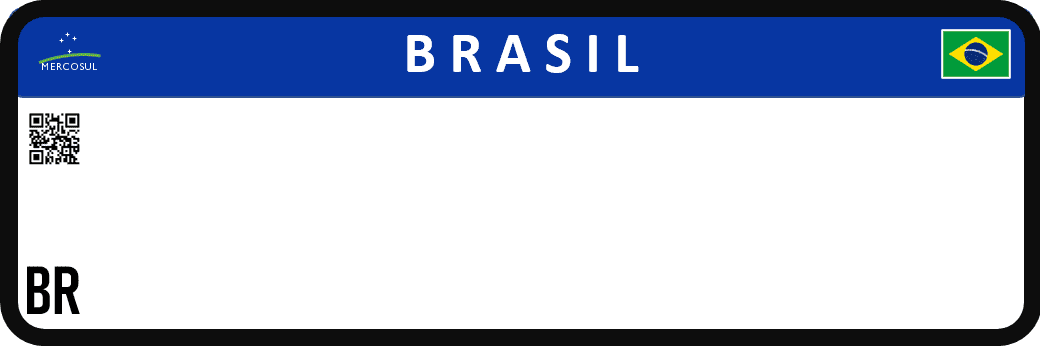
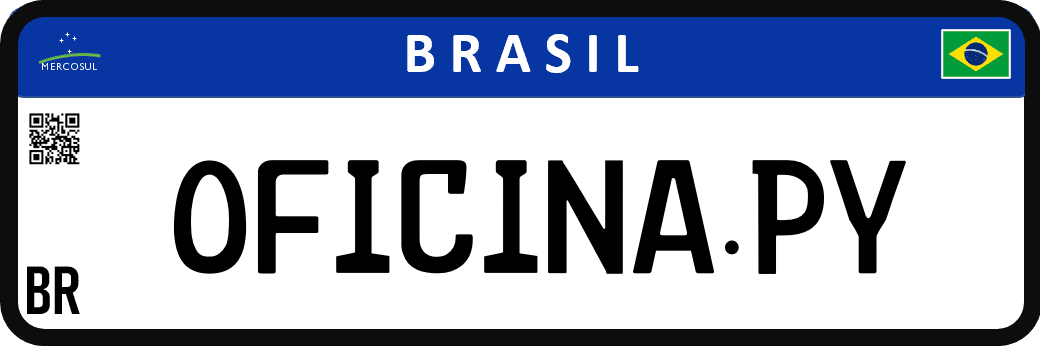
alteração placa de veiculos

Changed region(s): [[0.1538, 0.4624, 0.8923, 0.8092]]

diff --git a/View/Login/login.html b/View/Login/login.html
@@ -1,69 +1,66 @@
 {% extends "layouts/base-fullscreen.html" %}
 
-{% block title %} Entrar {% endblock %} 
+{% block title %} Entrar {% endblock %}
 
 <!-- Specific Page CSS goes HERE  -->
 {% block stylesheets %}{% endblock stylesheets %}
 
 {% block content %}
-    
-  <div class="page-header align-items-start min-vh-100" 
-        style="background-image: url('/static/assets/img/illustrations/motoMapBackground.jpg'); background-size: cover;">
-    <span class="mask bg-gradient-dark opacity-6"></span>
-    <div class="container my-auto">
-      <div class="row">
-        <div class="col-lg-4 col-md-8 col-12 mx-auto">
-          <div class="card z-index-0 fadeIn3 fadeInBottom">
-            <div class="card-header p-0 position-relative mt-n4 mx-3 z-index-2">
-              <div class="bg-gradient-primary shadow-primary border-radius-lg py-3 pe-1">
-                <h4 class="text-white font-weight-bolder text-center mt-2 mb-0">
-                  Oficina Py
-                </h4>
-                <div class="row mt-3">
-                  <p class="mb-0 text-white text-center">
-                    {% if msg %}
-                      {{ msg | safe }}
-                    {% else %}
-                      Inserir credenciais
-                    {% endif %}
-                  </p>
-                </div>
+
+<div class="page-header align-items-start min-vh-100"
+  style="background-image: url('/static/assets/img/illustrations/motoMapBackground.jpg'); background-size: cover;">
+  <span class="mask bg-gradient-dark opacity-6"></span>
+  <div class="container my-auto">
+    <div class="row">
+      <div class="col-lg-4 col-md-8 col-12 mx-auto">
+        <div class="card z-index-0 fadeIn3 fadeInBottom">
+          <div class="card-header p-0 position-relative mt-n4 mx-3 z-index-2">
+            <div class="bg-gradient-light shadow-primary border-radius-lg py-3 pe-1">
+              <img src="/static/assets/img/placa_veiculo.png" class="mx-auto d-block" alt="logo" width="250">
+              <div class="row mt-3">
+                <p class="mb-0 text-black text-center">
+                  {% if msg %}
+                  {{ msg | safe }}
+                  {% else %}
+                  Inserir credenciais
+                  {% endif %}
+                </p>
               </div>
             </div>
-            <div class="card-body">
-              
-              <form role="form" method="post" action="" class="text-start">
+          </div>
+          <div class="card-body">
 
-                {{ form.hidden_tag() }} 
+            <form role="form" method="post" action="" class="text-start">
 
-                <div class="input-group input-group-outline mb-3">
-                    {{ form.username(class="form-control", placeholder="Usuario") }}
-                </div>
-                <div class="input-group input-group-outline mb-3">
-                  {{ form.password(class="form-control", type="password", placeholder="Senha") }}
-                </div>
-                <div class="form-check form-switch d-flex align-items-center mb-3">
-                  <input class="form-check-input" type="checkbox" id="rememberMe">
-                  <label class="form-check-label mb-0 ms-2" for="rememberMe">lembrar-me</label>
-                </div>
-                <div class="text-center">
-                  <button type="submit" name="login" 
-                          class="btn bg-gradient-primary w-100 my-4 mb-2">Entrar</button>
-                </div>
-                <p class="mt-4 text-sm text-center">
-                  Não tem uma conta?
-                  <a href="{{ url_for('index.register') }}" class="text-primary text-gradient font-weight-bold">Criar</a>
-                </p>
-              </form>
-            </div>
+              {{ form.hidden_tag() }}
+
+              <div class="input-group input-group-outline mb-3">
+                {{ form.username(class="form-control", placeholder="Usuario") }}
+              </div>
+              <div class="input-group input-group-outline mb-3">
+                {{ form.password(class="form-control", type="password", placeholder="Senha") }}
+              </div>
+              <div class="form-check form-switch d-flex align-items-center mb-3">
+                <input class="form-check-input" type="checkbox" id="rememberMe">
+                <label class="form-check-label mb-0 ms-2" for="rememberMe">lembrar-me</label>
+              </div>
+              <div class="text-center">
+                <button type="submit" name="login" class="btn bg-gradient-primary w-100 my-4 mb-2">Entrar</button>
+              </div>
+              <p class="mt-4 text-sm text-center">
+                Não tem uma conta?
+                <a href="{{ url_for('index.register') }}" class="text-primary text-gradient font-weight-bold">Criar</a>
+              </p>
+            </form>
           </div>
         </div>
       </div>
     </div>
-
-    {% include 'includes/footer-fullscreen.html' %}
-
   </div>
+
+  {% include 'includes/footer-fullscreen.html' %}
+
+</div>
 
 {% endblock content %}
 

diff --git a/Model/produto.py b/Model/produto.py
@@ -18,7 +18,4 @@ class Produto(db.Model):
     estoque_minimo: int = db.Column(db.Float)
     tipo: int = db.Column(db.Integer)
     data_criacao: datetime = db.Column(db.DateTime, default=datetime.now)
-    data_atualizacao: datetime = db.Column(db.DateTime, default=datetime.now, onupdate=datetime.now)
-    obs: str = db.Column(db.String(200))
-
-  
+    data_atualizacao: datetime = db.Column(db.DateTime, default=datetime.now, onupdate=datetime.now)  
